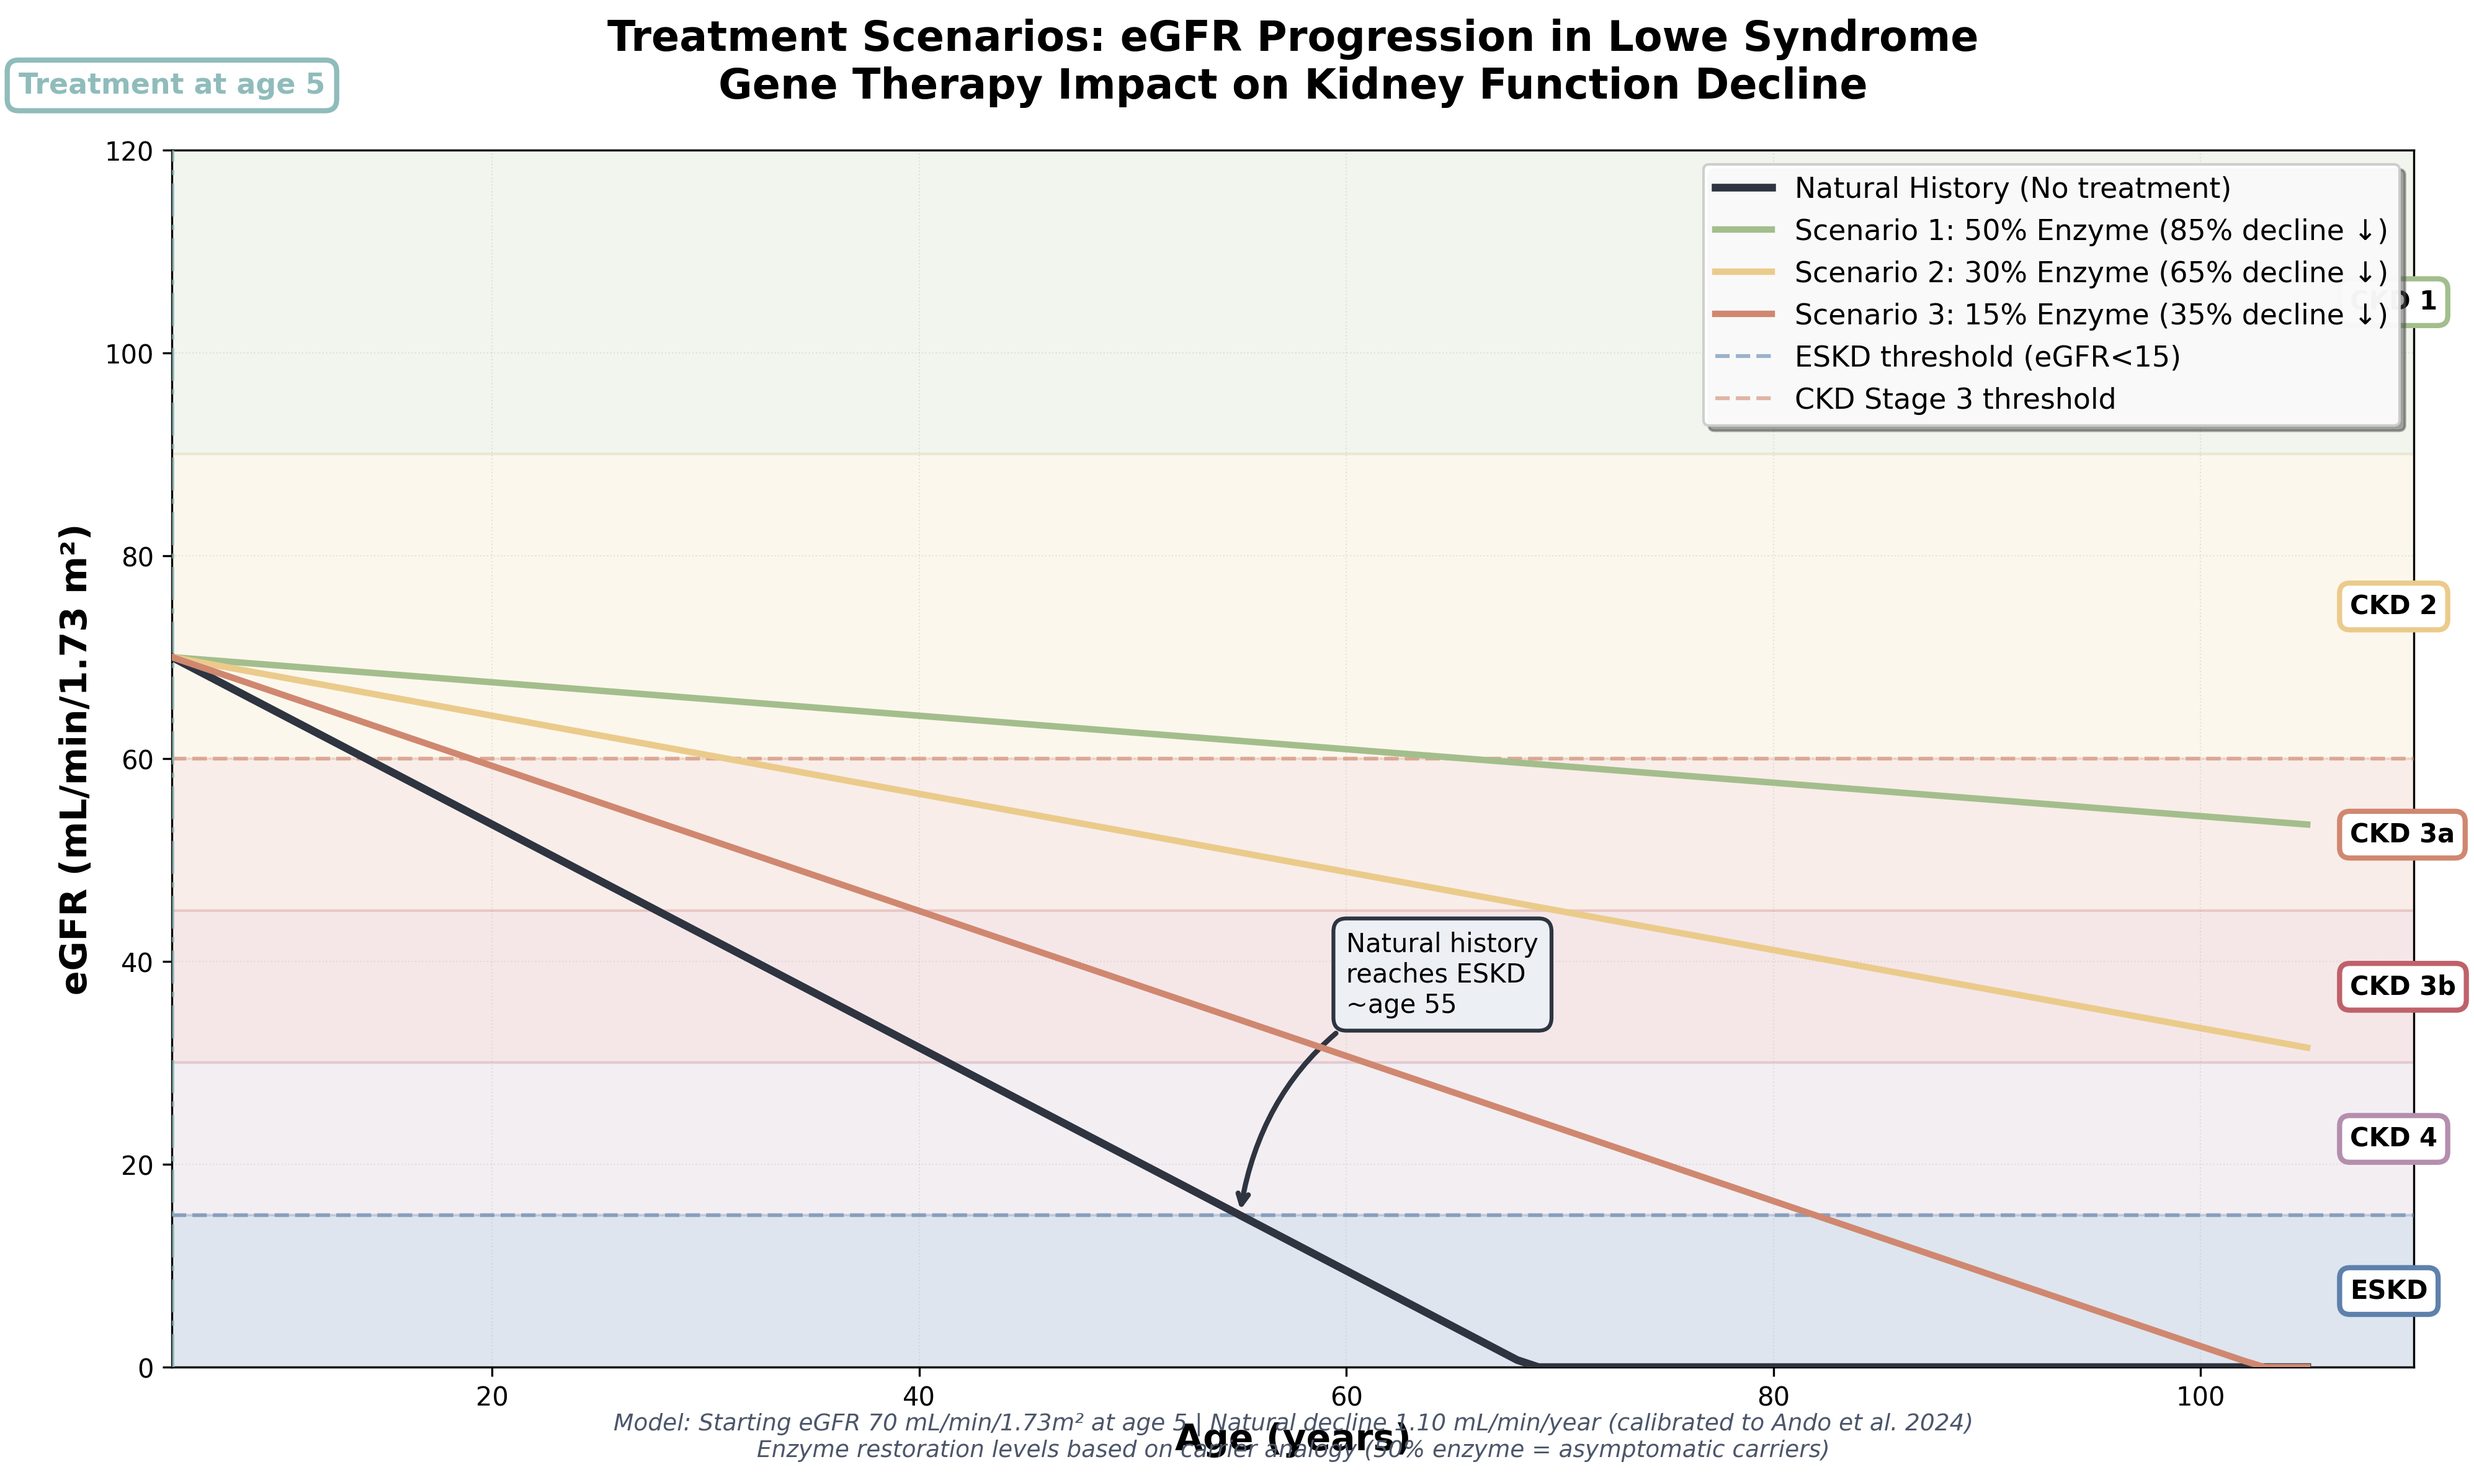
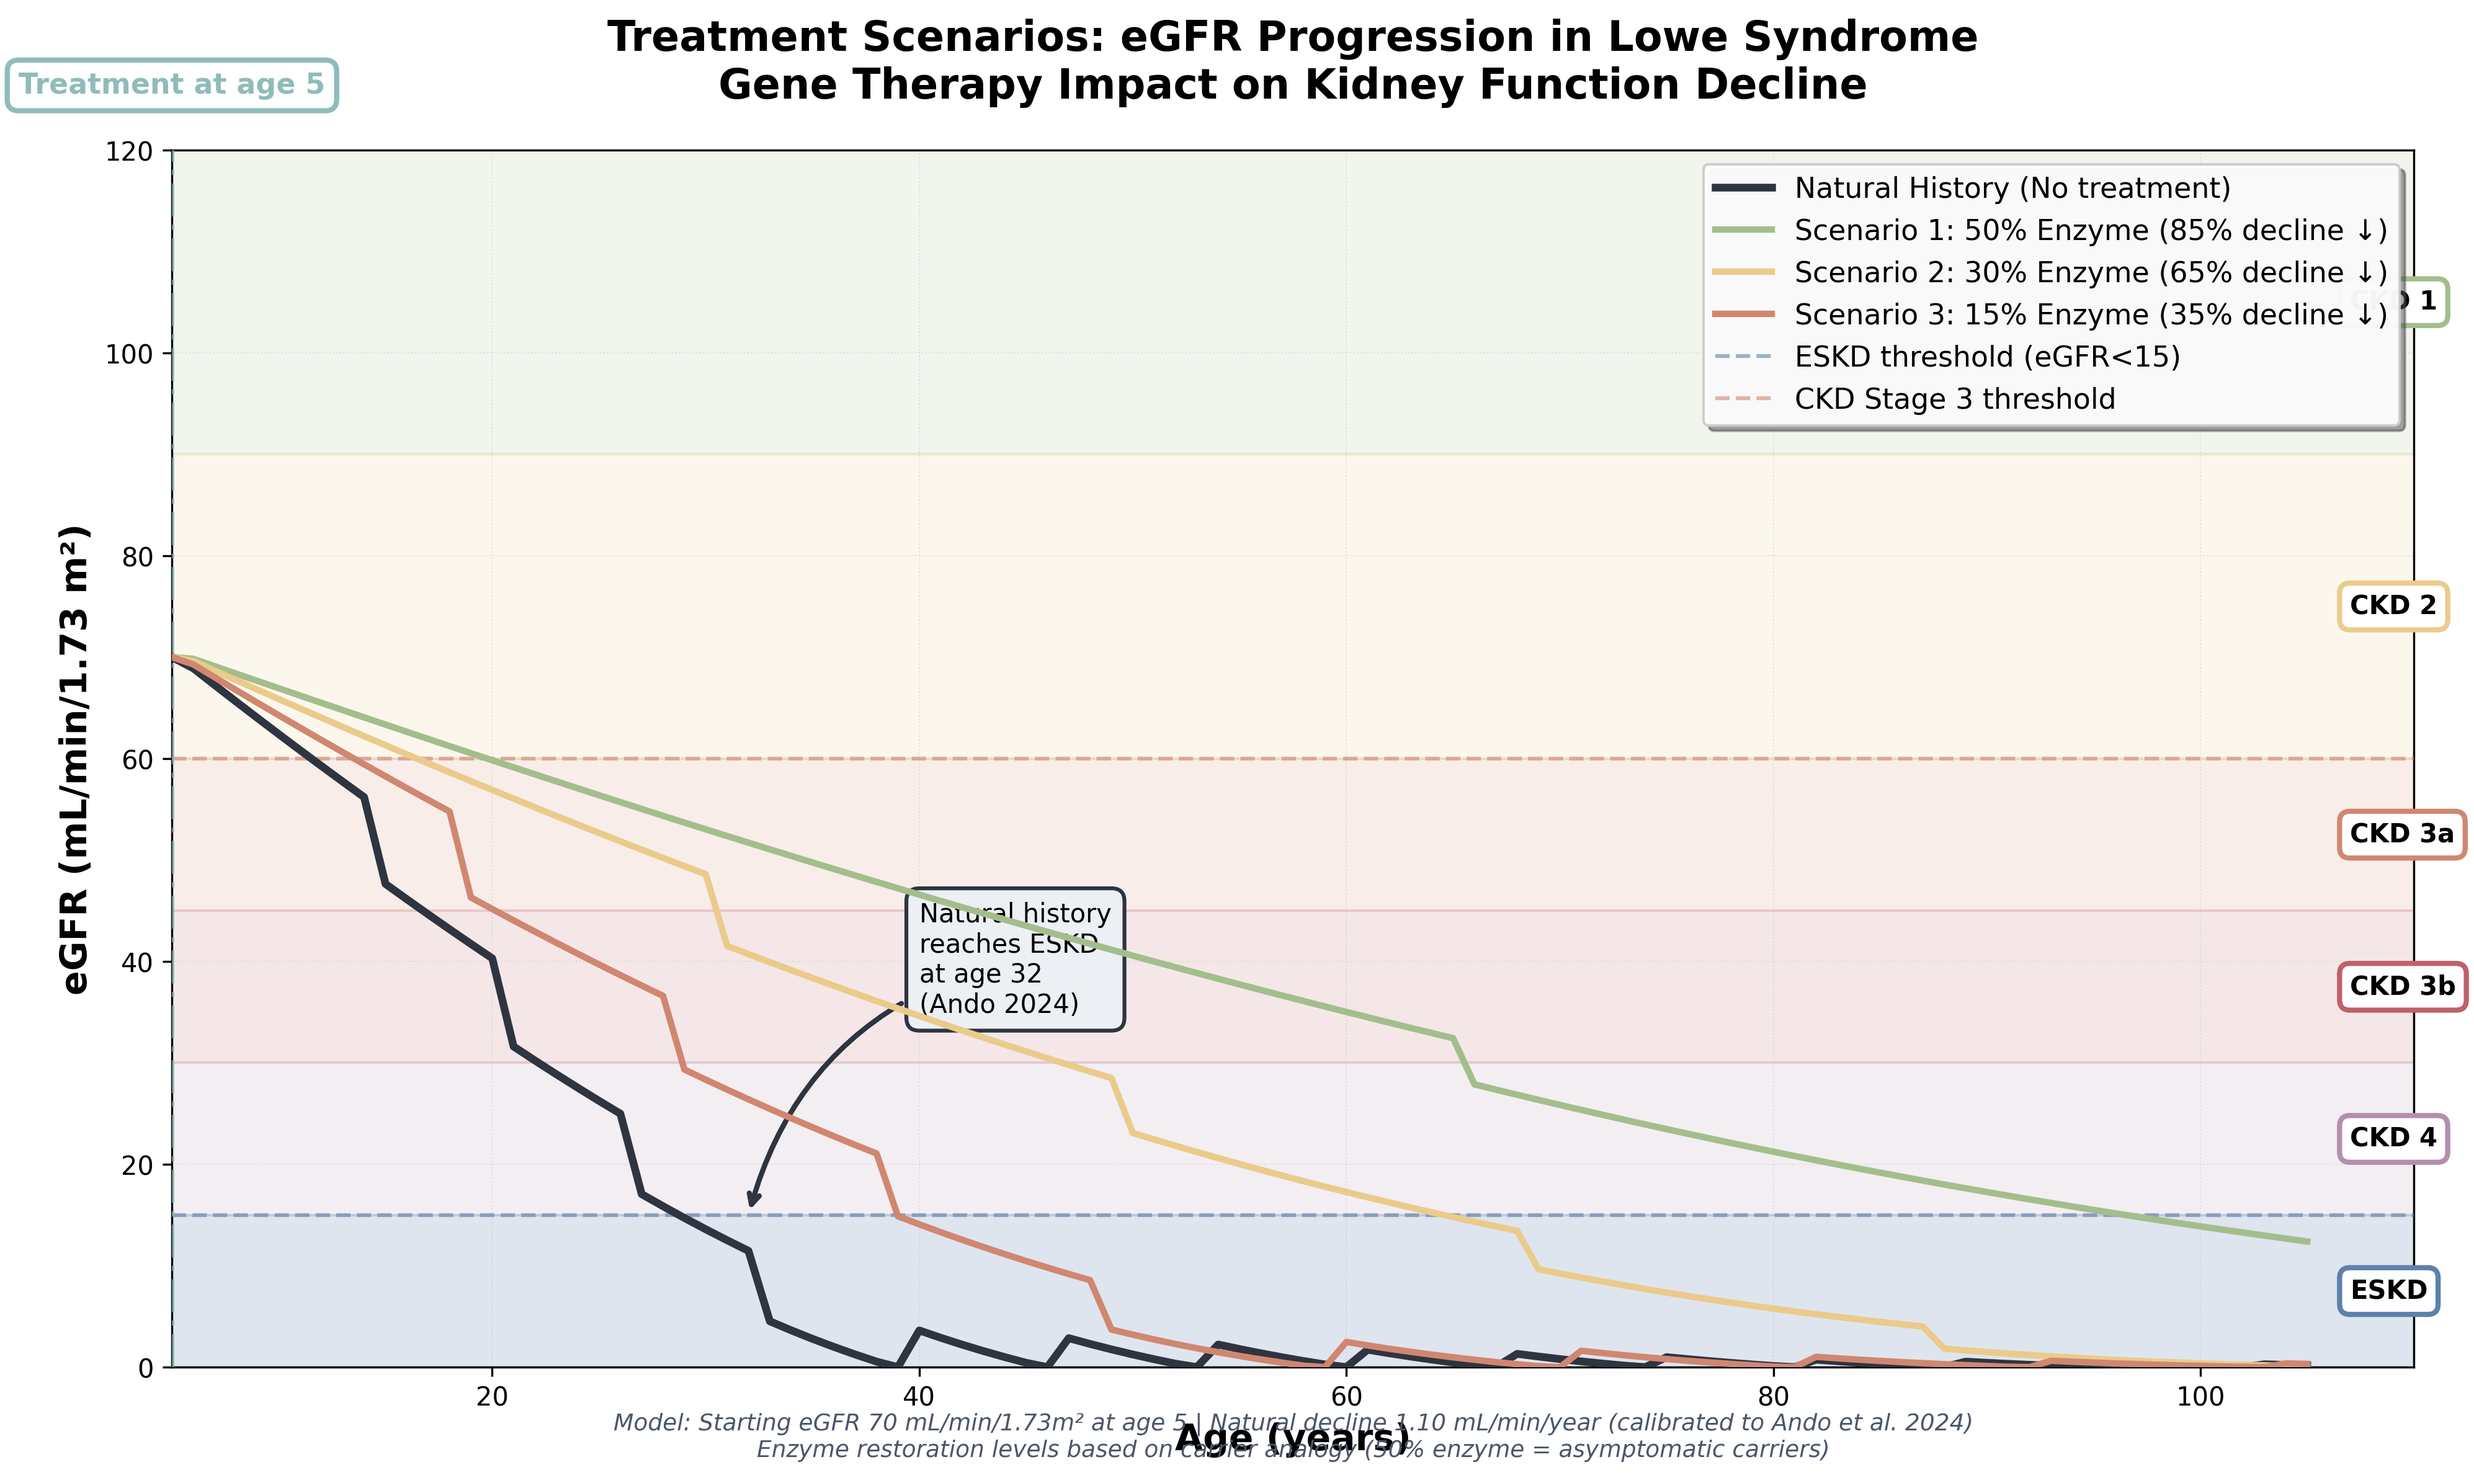
Fix treatment scenarios figure to use actual Markov model output
CRITICAL FIX: Natural history now correctly reaches ESKD at age 32 (not 55)
- Use actual Markov model eGFR trajectories instead of simple linear decline
- Discrete CKD states produce correct progression matching Ando 2024 data
- Trajectories now show step-like patterns from state transitions
- All scenarios use consistent model output

diff --git a/Models/Lowe_HTA/plot_treatment_scenarios.py b/Models/Lowe_HTA/plot_treatment_scenarios.py
@@ -1,19 +1,23 @@
 """
 Plot treatment scenarios for Lowe syndrome gene therapy
-Recreates natural history progression and shows 3 treatment scenarios
+Uses actual Markov model output to show natural history and treatment scenarios
 """
 
 import numpy as np
 import matplotlib.pyplot as plt
 import matplotlib.patches as mpatches
 from matplotlib.patches import Rectangle
+from markov_cua_model import ModelParameters, MarkovCohortModel
 
-# Model parameters from markov_cua_model.py
-starting_age = 5
-starting_egfr = 70.0
-natural_decline_rate = 1.10  # ml/min/1.73m²/year
+# Initialize model
+params = ModelParameters()
+model = MarkovCohortModel(params)
 
-# Treatment scenarios (decline reduction)
+# Model parameters
+starting_age = params.starting_age
+natural_decline_rate = params.natural_decline_rate
+
+# Treatment scenarios - run actual model for each
 scenarios = {
     'Natural History': {
         'decline_rate': natural_decline_rate * 1.0,  # 100% (no reduction)
@@ -45,6 +49,17 @@ scenarios = {
     }
 }
 
+print("Running Markov model for all scenarios...")
+model_results = {}
+for scenario_name, config in scenarios.items():
+    print(f"  {scenario_name}...")
+    results = model.run_model(
+        egfr_decline_rate=config['decline_rate'],
+        scenario_name=scenario_name,
+        include_gene_therapy_cost=False
+    )
+    model_results[scenario_name] = results
+
 # CKD stage thresholds
 ckd_stages = {
     'CKD 1': (90, 120, '#A3BE8C', 0.15),
@@ -55,22 +70,19 @@ ckd_stages = {
     'ESKD': (0, 15, '#5E81AC', 0.2)
 }
 
-# Time horizon
-years = np.arange(0, 101)  # 0 to 100 years from treatment
-ages = starting_age + years
-
-# Calculate eGFR trajectories
+# Create figure
 fig, ax = plt.subplots(figsize=(14, 8))
 
 # Add CKD stage background shading
 for stage_name, (lower, upper, color, alpha) in ckd_stages.items():
     ax.axhspan(lower, upper, color=color, alpha=alpha, zorder=0)
 
-# Plot each scenario
+# Plot each scenario using actual model output
 for scenario_name, config in scenarios.items():
-    decline_rate = config['decline_rate']
-    egfr_trajectory = starting_egfr - (decline_rate * years)
-    egfr_trajectory = np.maximum(egfr_trajectory, 0)  # Floor at 0
+    results = model_results[scenario_name]
+    egfr_trajectory = results['egfr_track']
+    years = np.arange(len(egfr_trajectory))
+    ages = starting_age + years
 
     ax.plot(
         ages,
@@ -81,6 +93,10 @@ for scenario_name, config in scenarios.items():
         label=config['label'],
         zorder=10
     )
+
+# Get natural history time to ESKD for annotation
+natural_results = model_results['Natural History']
+natural_eskd_age = starting_age + natural_results['time_to_eskd']
 
 # Add CKD stage labels on the right
 stage_label_x = 107  # x-position for stage labels
@@ -126,12 +142,11 @@ ax.legend(
 )
 
 # Add annotations for key events
-# Natural history reaches ESKD
-natural_eskd_age = starting_age + (starting_egfr - 15) / natural_decline_rate
+# Natural history reaches ESKD (using actual model result)
 ax.annotate(
-    f'Natural history\nreaches ESKD\n~age {natural_eskd_age:.0f}',
+    f'Natural history\nreaches ESKD\nat age {natural_eskd_age:.0f}\n(Ando 2024)',
     xy=(natural_eskd_age, 15),
-    xytext=(natural_eskd_age + 5, 35),
+    xytext=(natural_eskd_age + 8, 35),
     fontsize=10,
     ha='left',
     bbox=dict(boxstyle='round,pad=0.5', facecolor='#ECEFF4', edgecolor='#2E3440', linewidth=1.5),
